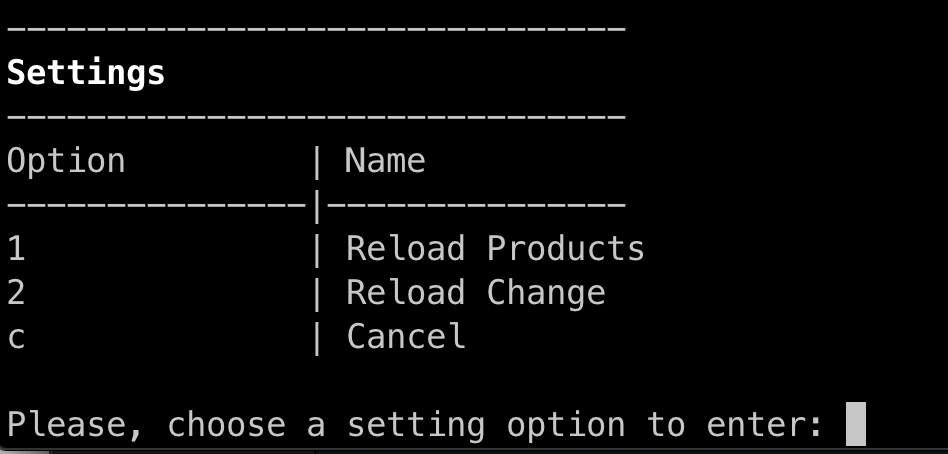
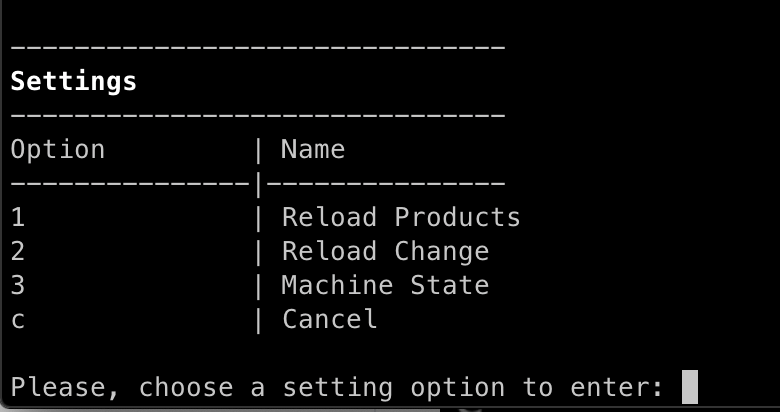
Updating readme

diff --git a/README.md b/README.md
@@ -31,6 +31,10 @@ docker-compose run machine
 
 ![Alt settings](data/settings.png?raw=true "Settings menu")
 
+#### Machine state
+
+![Alt settings](data/state.png?raw=true "Settings menu")
+
 ### Sample data
 
 **Products**
